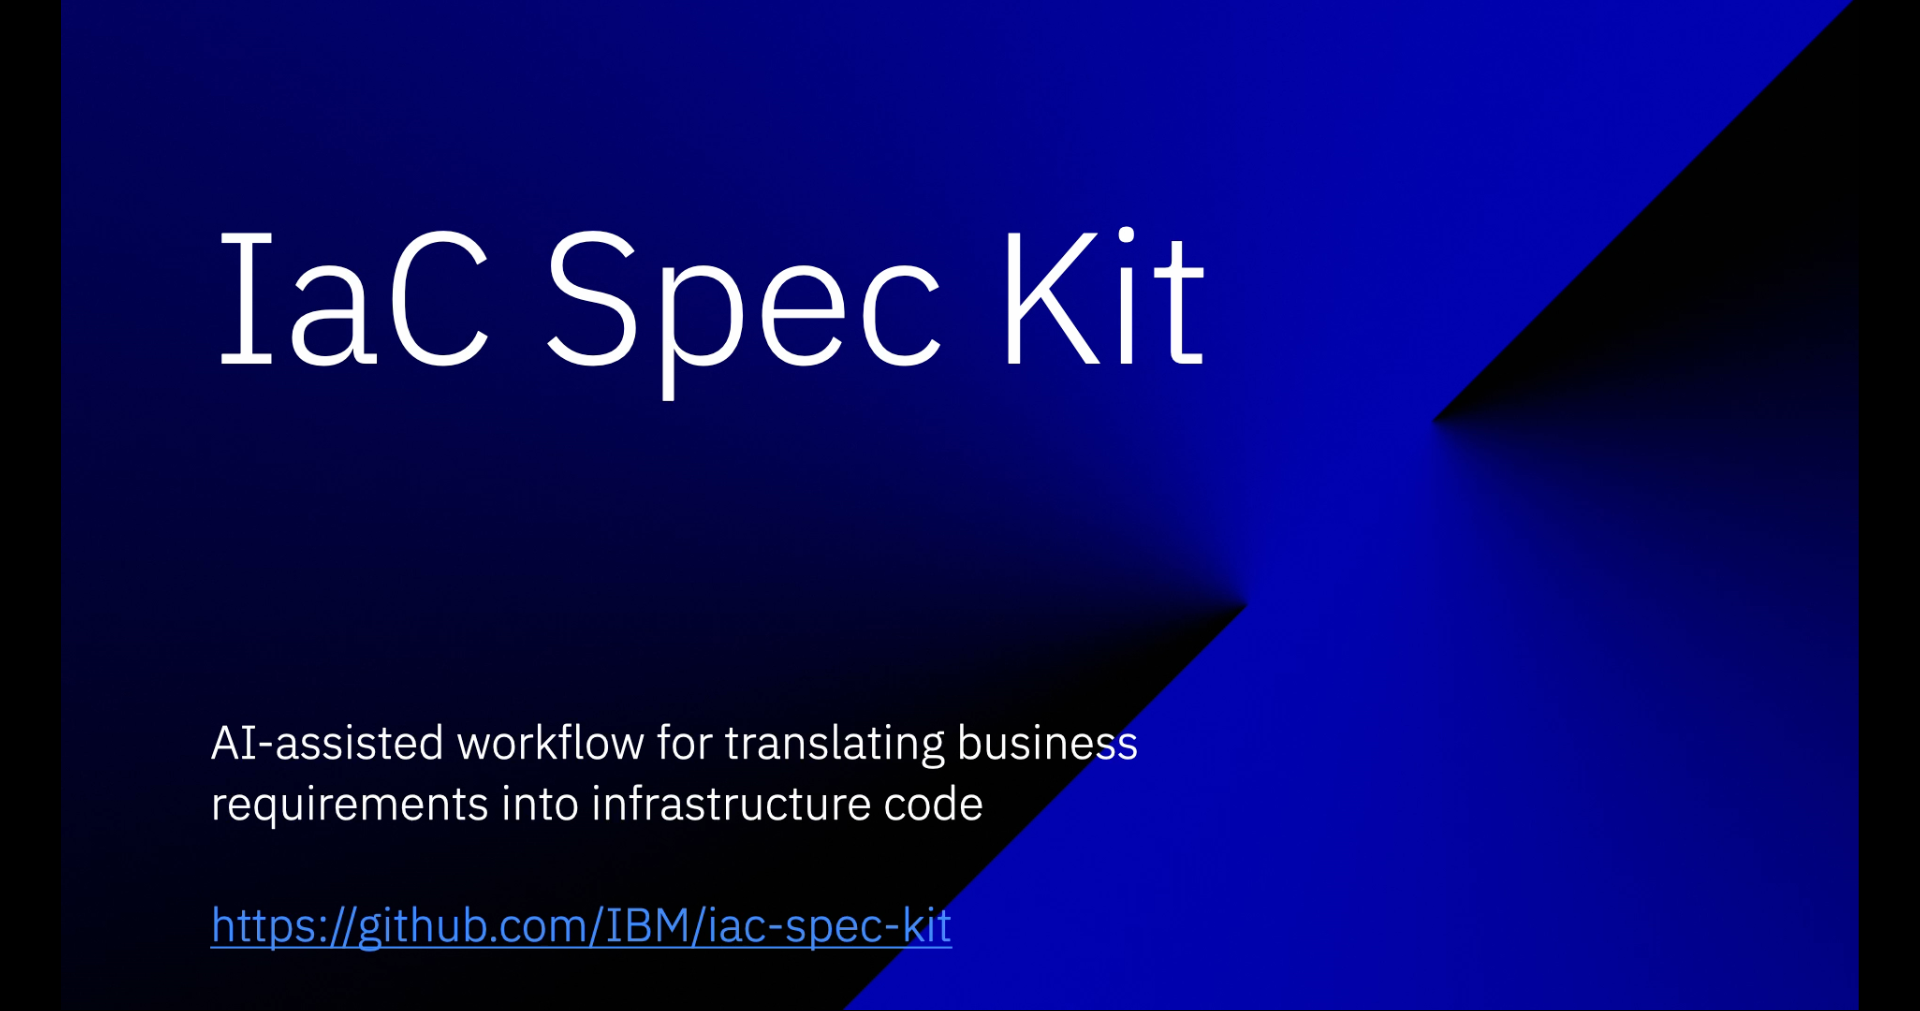
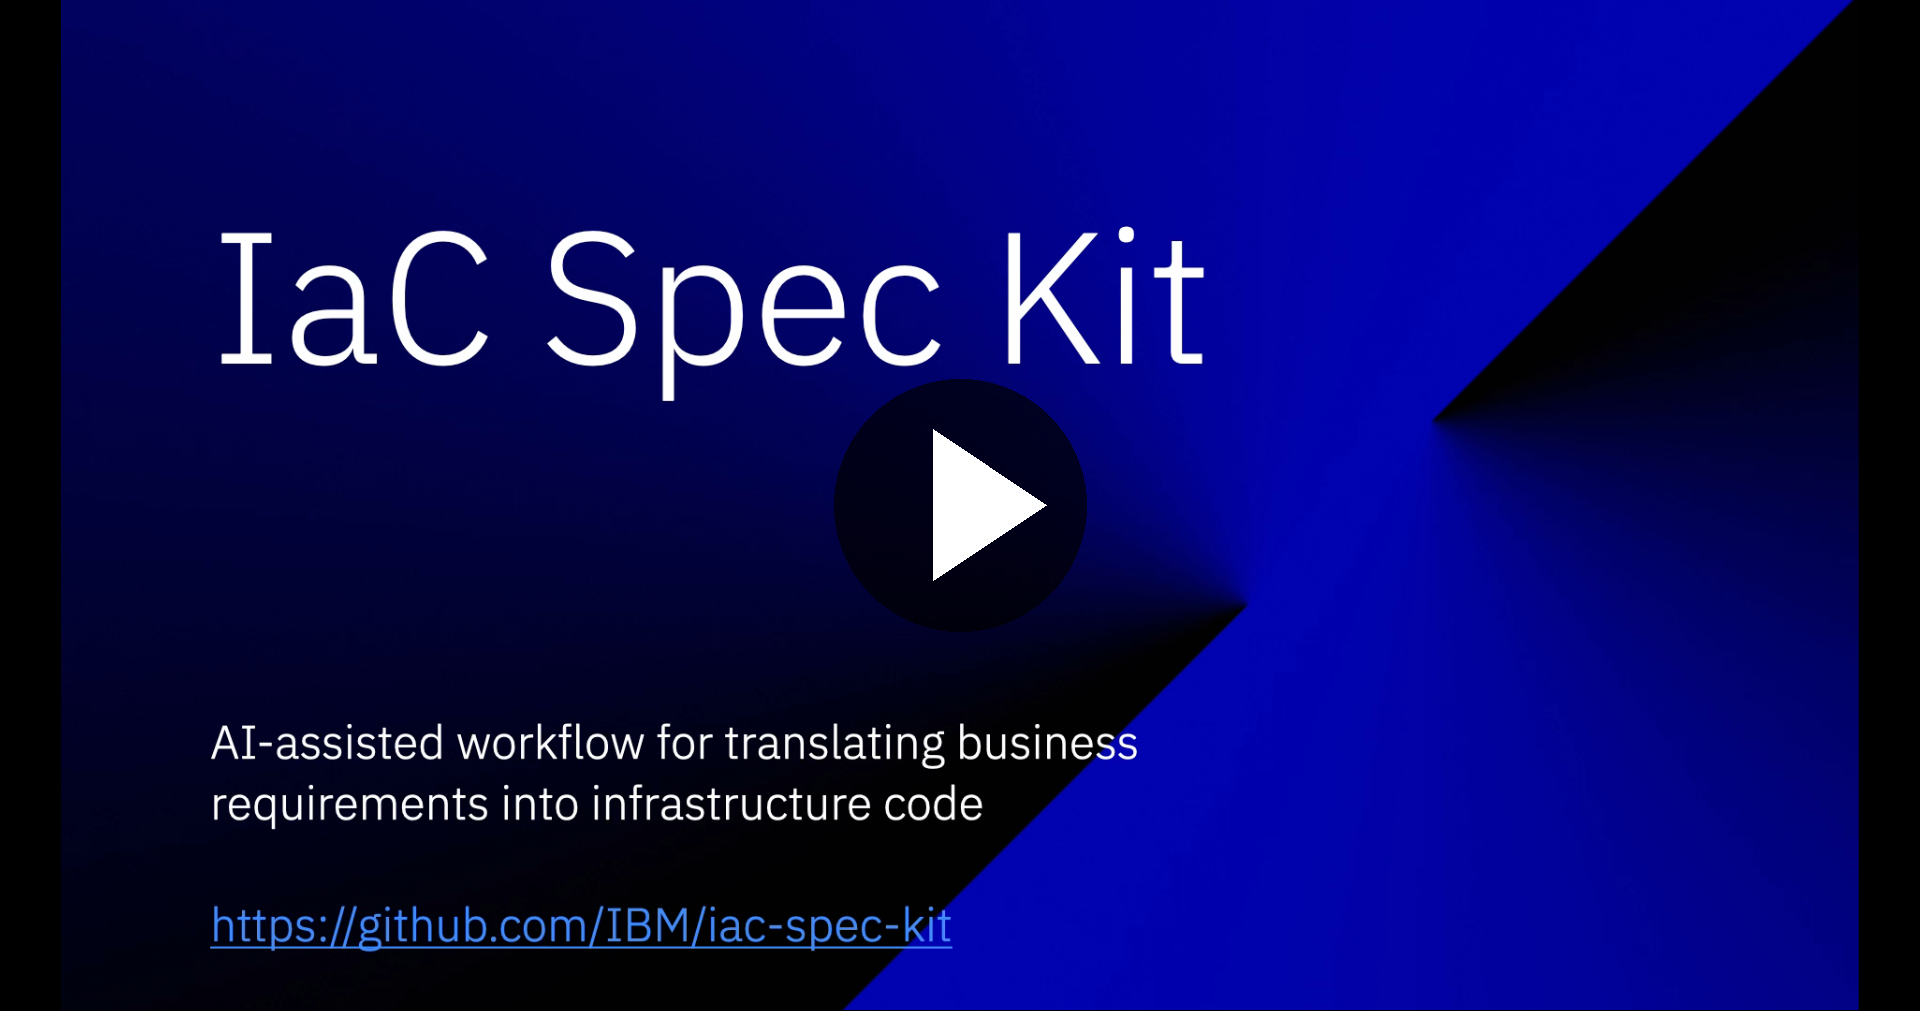
docs: fix thumbnail

Changed region(s): [[0.4375, 0.368, 0.5938, 0.6439]]

diff --git a/README.md b/README.md
@@ -67,7 +67,9 @@ Specification-Driven Development (SDD) is an emerging methodology where detailed
 
 See the complete workflow in action (2 minutes):
 
-[![IaC Spec Kit Walkthrough](https://img.youtube.com/vi/al1Yx0BG7Wo/hqdefault.jpg)](https://www.youtube.com/watch?v=al1Yx0BG7Wo)
+<a href="https://www.youtube.com/watch?v=al1Yx0BG7Wo">
+  <img src="./media/iac-spec-kit-thumbnail.png" alt="IaC Spec Kit Walkthrough" width="600">
+</a>
 
 This visual guide shows the end-to-end process of using IaC Spec Kit to generate infrastructure specifications, plans, and Terraform code for a WordPress deployment on IBM Cloud.
 
